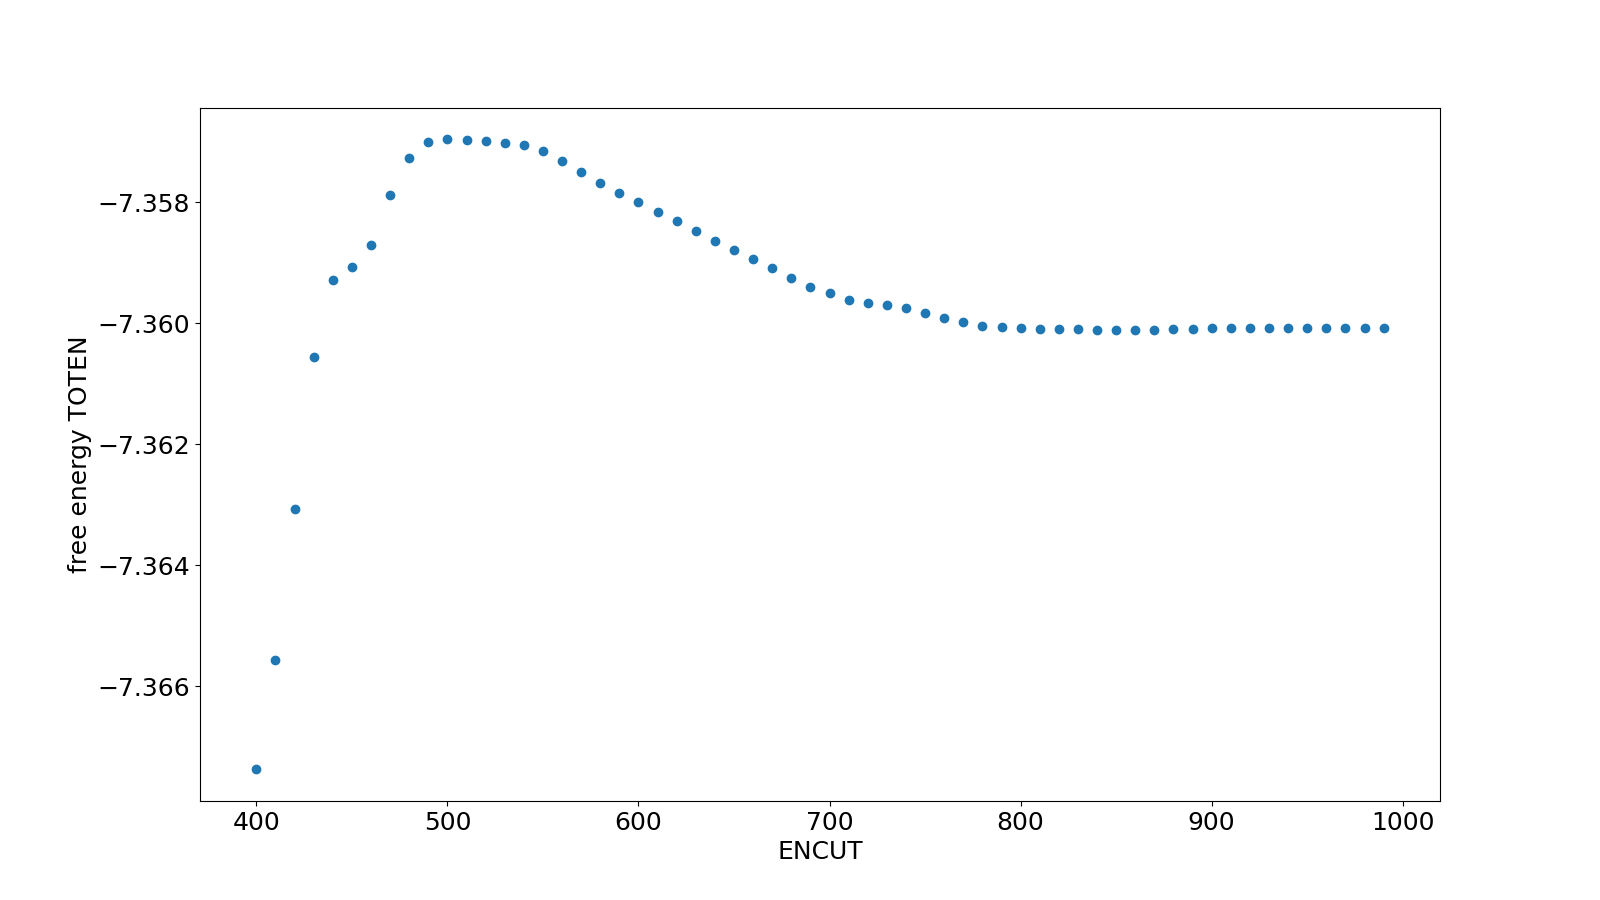
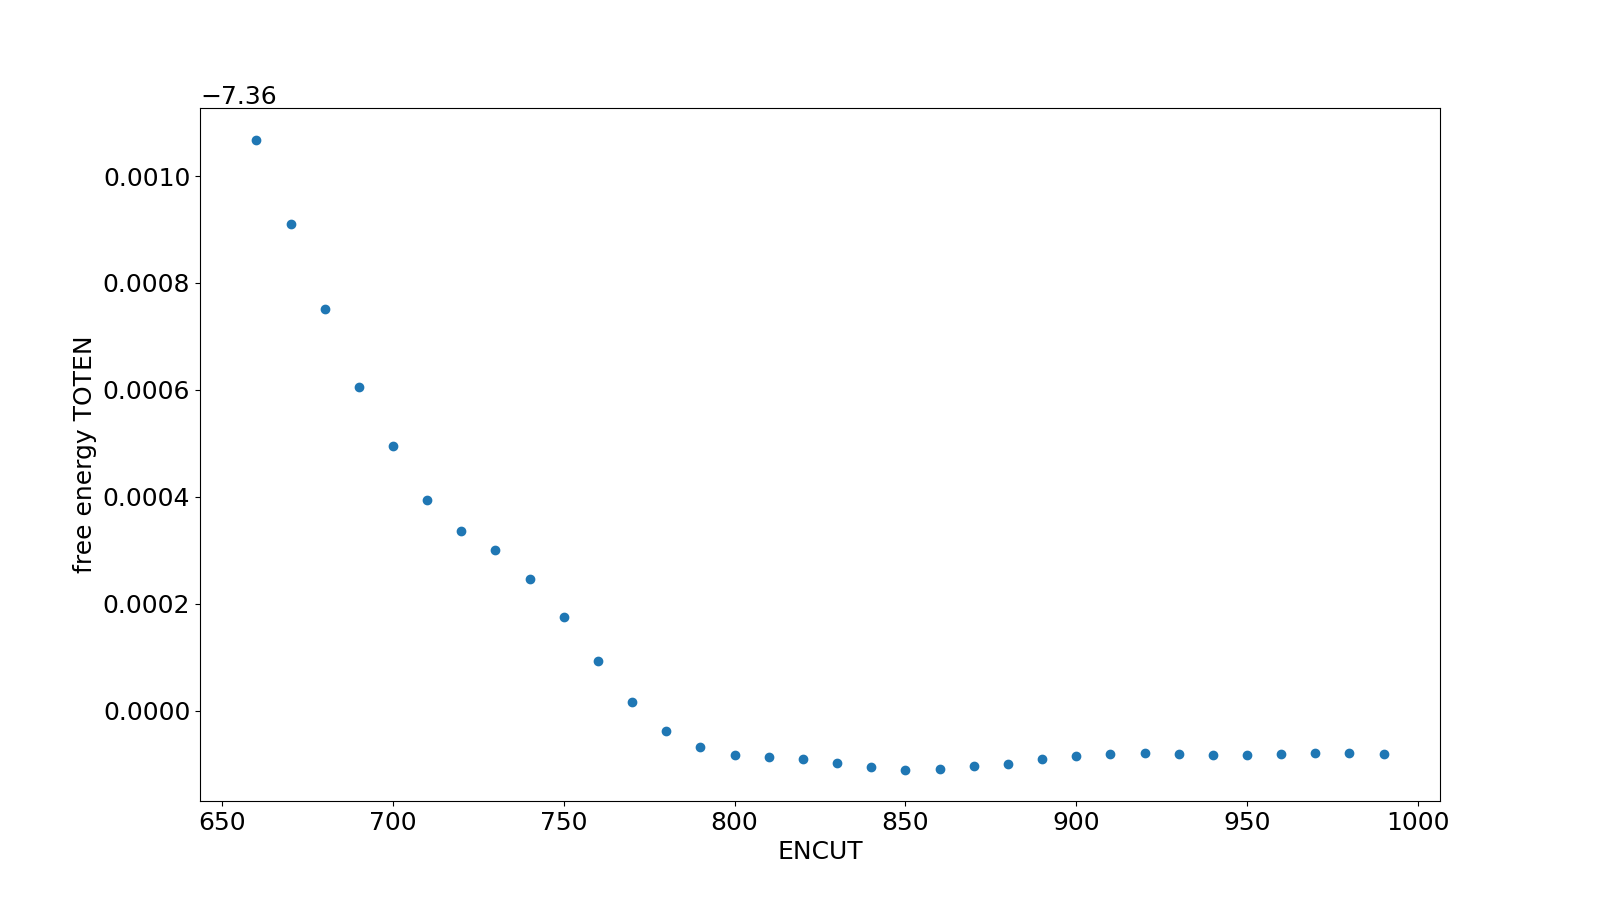
minimal changes

diff --git a/0_conv_tests/plot_results.py b/0_conv_tests/plot_results.py
@@ -14,14 +14,14 @@ import matplotlib.pyplot as plt
 plt.rcParams.update({'font.size': 18})
 
 # choose the desired mode: 'encut' or 'kgrid'
-MODE = 'kgrid'
+MODE = 'encut'
 
 # put the correct number of atoms in the unit cell
 ATOMS_IN_CELL = 30
 
 # minimum and maximum values on the x asis for plotting, can be omitted
-# XMIN = 660
-# XMAX = 1000
+XMIN = 660
+XMAX = 1000
 
 
 def single_plot(X, Y, label=None):
